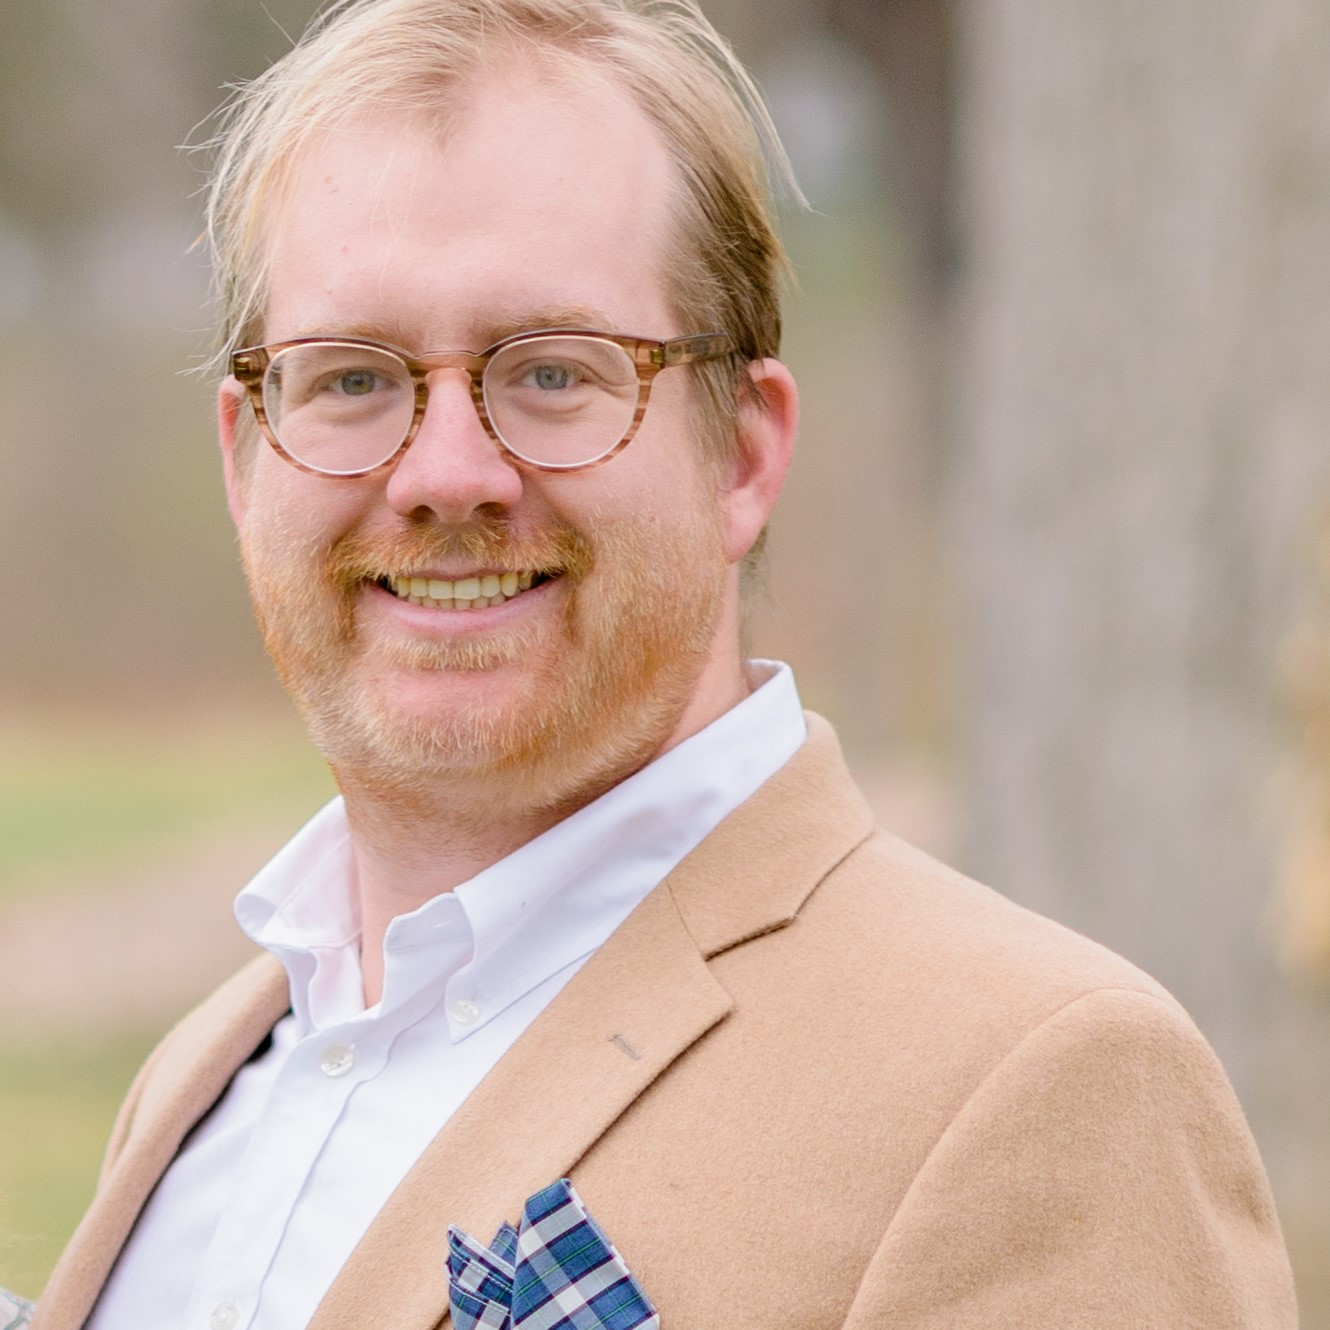
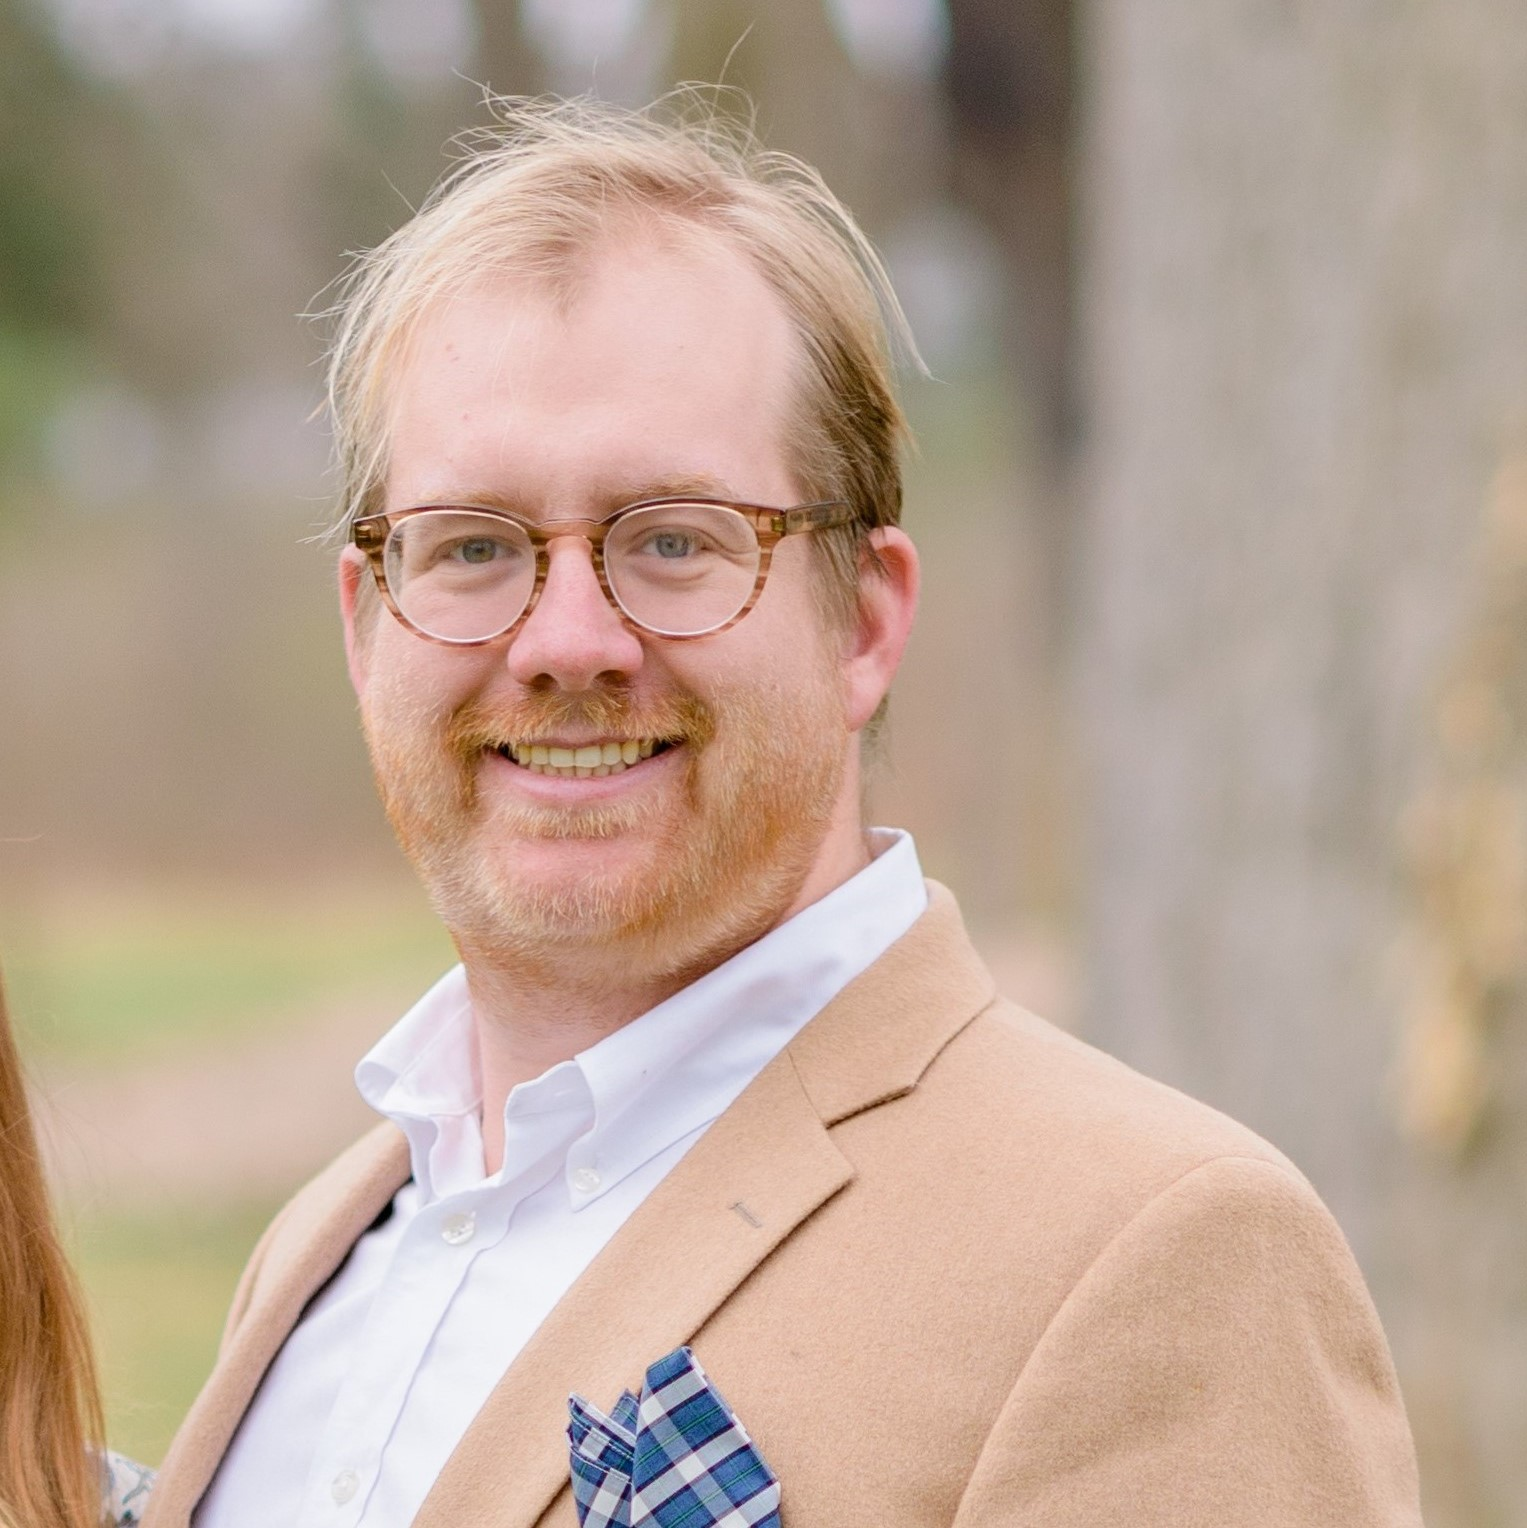
talks +
fixed typo in galois-connection post, fixed headshot, added talks, fixed favicon

diff --git a/_includes/head/custom.html b/_includes/head/custom.html
@@ -11,7 +11,7 @@
 <link rel="apple-touch-icon" sizes="144x144" href="{{ base_path }}/images/apple-touch-icon-144x144.png?v=M44lzPylqQ">
 <link rel="apple-touch-icon" sizes="152x152" href="{{ base_path }}/images/apple-touch-icon-152x152.png?v=M44lzPylqQ">
 <link rel="apple-touch-icon" sizes="180x180" href="{{ base_path }}/images/apple-touch-icon-180x180.png?v=M44lzPylqQ">
-<link rel="icon" type="image/png" href="{{ base_path }}/images/favicon-32x32.png?v=M44lzPylqQ" sizes="32x32">
+<link rel="icon" type="image/png" href="{{ base_path }}/images/favicon.png?v=M44lzPylqQ" sizes="32x32">
 <link rel="icon" type="image/png" href="{{ base_path }}/images/android-chrome-192x192.png?v=M44lzPylqQ" sizes="192x192">
 <link rel="icon" type="image/png" href="{{ base_path }}/images/favicon-96x96.png?v=M44lzPylqQ" sizes="96x96">
 <link rel="icon" type="image/png" href="{{ base_path }}/images/favicon-16x16.png?v=M44lzPylqQ" sizes="16x16">

diff --git a/_talks/2020-12-11-neurips-20.md b/_talks/2020-12-11-neurips-20.md
@@ -1,0 +1,15 @@
+---
+title: "Multidimensional Persistence Module Classification via Lattice-Theoretic Convolutions"
+collection: talks
+type: "Spotlight"
+permalink: /talks/2020-12-11-neurips-20
+venue: "NeurIPS 2020 Worshop: Topological Data Analysis and Beyond"
+date: 2020-12-11
+location: "Vancourver, Canada"
+---
+
+[Poster](https://openreview.net/attachment?id=CqFcRp-_mUD&name=Poster)
+
+Multiparameter persistent homology has been largely neglected as an input to machine learning algorithms. We consider the use of lattice-based convolutional neural network layers as a tool for the analysis of features arising from multiparameter persistence  modules. We find that these show promise as an alternative to convolutions for the classification of multidimensional persistence modules.
+
+<iframe src="https://slideslive.com/embed/presentation/38941581?url=https%3A%2F%2Ftda-in-ml.github.io%2Fpapers&amp;origin=https%3A%2F%2Ftda-in-ml.github.io&amp;target_id=presentation-embed-38941581&amp;auto_play=&amp;zoom_ratio=&amp;disable_fullscreen=&amp;locale=en&amp;vertical_enabled=true&amp;vertical_enabled_on_mobile=&amp;allow_hidden_controls_when_paused=&amp;debug_slideslive_player=&amp;user_uuid=7fa3bc0d-0a95-456c-9c9b-ea2cac407406" height="301" scrolling="no" frameborder="0" sandbox="allow-forms allow-pointer-lock allow-popups allow-same-origin allow-scripts allow-top-navigation" allow="autoplay; fullscreen" allowfullscreen="" webkitallowfullscreen="" mozallowfullscreen="" style="margin: 0px auto; display: block; width: 100%;"></iframe>

diff --git a/_posts/2021-04-09-galois-connections.md b/_posts/2021-04-09-galois-connections.md
@@ -76,7 +76,7 @@ $$
 
 Historically speaking, it may have been Richard Dedekind who wrote the first paper explicitly on lattices around the turn of the 20th century. However, perhaps the most important construction in lattice theory, the [*Galois connection*](https://ncatlab.org/nlab/show/Galois+connection), was essentially invented by Évariste Galois in 1830. Galois also is often credited at inventing group theory (the abstract study of symmetries) at the same time. Both groups and Galois connections were invented as abstract tools to reason about polynomials.
 
-Consider posets $(P, \leq)$ and $(Q,\sqsubseteq)$. An an order-revering map is a map $\varphi: P \to Q$ such that if $x \leq y$, then $\varphi(X) \sqsupseteq \varphi(y)$. A Galois connection between two posets $(P, \leq)$ and $(Q,\sqsubseteq)$  is a pair $(f_\ast, f^\ast)$ of order-reversing  maps,
+Consider posets $(P, \leq)$ and $(Q,\sqsubseteq)$. An an order-reversing map is a map $\varphi: P \to Q$ such that if $x \leq y$, then $\varphi(X) \sqsupseteq \varphi(y)$. A Galois connection between two posets $(P, \leq)$ and $(Q,\sqsubseteq)$  is a pair $(f_\ast, f^\ast)$ of order-reversing  maps,
 
 $$
 f_\ast: P \leftrightarrows Q: f^\ast

diff --git a/_pages/about.md b/_pages/about.md
@@ -7,7 +7,7 @@ redirect_from:
   - /about.html
 ---
 
-### a little about my research
+### A little about my research
 
 Although I am affiliated with the Electrical and Systems Engineering department at Penn, I consider myself neither an engineer nor a mathematician, but something in between. As a mathematician, I work in areas of applied category theory, algebraic combinatorics, and applied algebraic topology. As an engineer, I focus on application areas in multi-agent systems. In particular, I am interested in robotic systems, graph signal processing, and opinion dynamics. 
 
@@ -17,7 +17,7 @@ Of paramount importance to my research is a curious operator called the [**Tarsk
 
 (Credit: [Robert Ghrist](https://www2.math.upenn.edu/~ghrist/).)
 
-### a little about me
+### A little about me
 
 I was born and raised in Bloomington, Indiana. I did my undergrad in Durham, North Carolina. I am now working on my doctorate in Philadelphia, Pennsylvania. I enjoy playing tennis and biking. I enjoy listening and playing jazz and classical music.
 

diff --git a/_talks/2021-03-01-siam-cse21.md b/_talks/2021-03-01-siam-cse21.md
@@ -1,0 +1,13 @@
+---
+title: "A Lattice-Theoretic Laplacian for Cellular Sheaves"
+collection: talks
+type: "Talk"
+permalink: /talks/2021-03-01-siam-cse21
+venue: "SIAM Conference on Computational Science and Engineering"
+date: 2021-03-01
+location: "Fort Worth, Texas"
+---
+
+[More information here](https://meetings.siam.org/sess/dsp_talk.cfm?p=108999)
+
+I presented work on the Tarski Laplacian for the mini-symposium &amp;quot;Emerging Directions in Computational Topology,&amp;quot; organized by Brad Nelson and Greg Henselman. My talk emphasized computational aspects of computing with the Tarski Laplacian.

diff --git a/_talks/2020-05-06-siam-mds20.md b/_talks/2020-05-06-siam-mds20.md
@@ -1,0 +1,11 @@
+---
+title: "A Novel Graph Laplacian for Lattice-Valued Sheaves"
+collection: talks
+type: "Talk"
+permalink: /talks/2020-05-06-siam-mds20
+venue: "SIAM Conference on Mathematics of Data Science"
+date: 2020-05-06
+location: "Cincinnati, Ohio"
+---
+
+I presented work on the Tarski Laplacian for the mini-symposium &quot;Topological Image Analysis.&quot; In particular, I presented some preliminary ideas on processing images with lattice-based convolutional filters using the Tarski Laplacian of a certain sheaf over the grid-graph on an image.

diff --git a/_talks/2020-07-31-oxford-2020.md b/_talks/2020-07-31-oxford-2020.md
@@ -1,0 +1,11 @@
+---
+title: "Cellular Sheaves and the Tarski Laplacian"
+collection: talks
+type: "Talk"
+permalink: /talks/2020-07-31-oxford-2020
+venue: "Quantum Group, Oxford Department of Computer Science"
+date: 2020-07-31
+location: "Oxford, United Kingdom"
+---
+
+At the kind invitation of Vidit Nanda, I gave a talk to Samson Abramsky and his research group about our paper &quot;Cellular Sheaves of Lattices and the Tarski Laplacian.&quot;

diff --git a/_talks/2021-02-12-albany-2021.md b/_talks/2021-02-12-albany-2021.md
@@ -1,0 +1,13 @@
+---
+title: "Tarski Sheaves"
+collection: talks
+type: "Talk"
+permalink: /talks/2021-02-12-albany-2021
+venue: "Applied Topology in Albany Seminar"
+date: 2021-02-12
+location: "Albany, New York"
+---
+
+[More information here](https://atia-seminar.github.io/flyers/210212-seminar.pdf)
+
+I gave a talk on our paper &quot;Cellular Sheaves of Lattices and the Tarski Laplacian&quot; at the invitation of Justin Curry at SUNY Albany.
